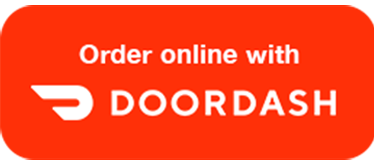
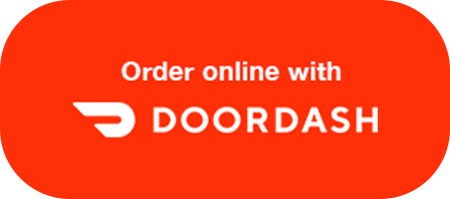
adjusted images in order page

diff --git a/css/stylesheet.css b/css/stylesheet.css
@@ -286,33 +286,23 @@ hr {
 
 .doordash {
 	width:100%;
-	height:165px;
+	height:199px;
 	background-image: url(../images/doordash.png);
 	background-repeat: no-repeat;
 	background-position: center;
-	padding: 12px;
+	padding-bottom: 32px;
 
 }
 
 .grubhub {
-	width:70%;
-	height:88px;
+	width:100%;
+	height:106px;
 	background-image: url(../images/grubhub.png);
 	background-repeat: no-repeat;
 	background-position: center;
-	padding: 12px;
+	padding-bottom: 12px;
 }
 
 .orderbuttonimage {
 	text-decoration: none;
-}
-
-form {
-	margin: 0 auto;
-    text-align: center;
-    padding: 20px;
-}
-
-.inputName {
-	
 }
